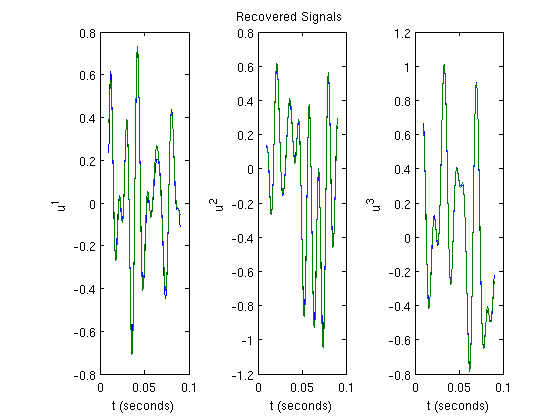
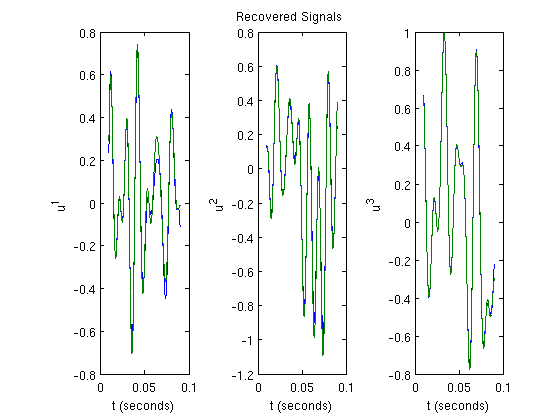
Add Eftychios' fix for the wrong signs in delayed IAF examples.

diff --git a/teddemos/html/iaf_spline_mimo_demo.html b/teddemos/html/iaf_spline_mimo_demo.html
@@ -6,7 +6,7 @@
    <!--
 This HTML was auto-generated from MATLAB code.
 To make changes, update the MATLAB code and republish this document.
-      --><title>Time Encoding and Decoding of Multiple Signals with Multiple Integrate-and-Fire Neurons Using Spline Interpolation</title><meta name="generator" content="MATLAB 7.11"><link rel="schema.DC" href="http://purl.org/dc/elements/1.1/"><meta name="DC.date" content="2011-02-03"><meta name="DC.source" content="iaf_spline_mimo_demo.m"><style type="text/css">
+      --><title>Time Encoding and Decoding of Multiple Signals with Multiple Integrate-and-Fire Neurons Using Spline Interpolation</title><meta name="generator" content="MATLAB 7.11"><link rel="schema.DC" href="http://purl.org/dc/elements/1.1/"><meta name="DC.date" content="2011-04-12"><meta name="DC.source" content="iaf_spline_mimo_demo.m"><style type="text/css">
 
 body {
   background-color: white;
@@ -95,7 +95,7 @@ C = 0.01*ones(1,N)/2;            <span class="comment">% capacitances</span>
 
 <span class="keyword">for</span> j=1:N
     <span class="keyword">for</span> i=1:M
-        v(j,:) = v(j,:)+scale(j,i)*u(i,tr_vc+round(delay(j,i)/dt));
+        v(j,:) = v(j,:)+scale(j,i)*u(i,tr_vc-round(delay(j,i)/dt));
     <span class="keyword">end</span>
 <span class="keyword">end</span>
 </pre><p>Encode the signals:</p><pre class="codeinput"><span class="keyword">for</span> j=1:N
@@ -118,9 +118,9 @@ snr
 </pre><pre class="codeoutput">
 snr =
 
-   21.2519   26.0216   31.3615
+   17.9749   21.9524   32.6320
 
-</pre><p><i>Author: Eftychios A. Pnevmatikakis</i></p><p><i>Copyright 2009-2010 Eftychios A. Pnevmatikakis</i></p><p class="footer"><br>
+</pre><p><i>Author: Eftychios A. Pnevmatikakis</i></p><p><i>Copyright 2009-2011 Eftychios A. Pnevmatikakis</i></p><p class="footer"><br>
       Published with MATLAB&reg; 7.11<br></p></div><!--
 ##### SOURCE BEGIN #####
 %% Time Encoding and Decoding of Multiple Signals with Multiple Integrate-and-Fire Neurons Using Spline Interpolation
@@ -187,7 +187,7 @@ v = zeros(N,length(tr_vc));
 
 for j=1:N
     for i=1:M
-        v(j,:) = v(j,:)+scale(j,i)*u(i,tr_vc+round(delay(j,i)/dt));
+        v(j,:) = v(j,:)+scale(j,i)*u(i,tr_vc-round(delay(j,i)/dt));
     end
 end    
 
@@ -223,7 +223,7 @@ snr
 %%
 % _Author: Eftychios A. Pnevmatikakis_
 %%
-% _Copyright 2009-2010 Eftychios A. Pnevmatikakis_
+% _Copyright 2009-2011 Eftychios A. Pnevmatikakis_
 
 ##### SOURCE END #####
 --></body></html>

diff --git a/ted/consistent_decoding_IF_MIMO.m b/ted/consistent_decoding_IF_MIMO.m
@@ -33,11 +33,11 @@ r = zeros(ln2(end),M);
 
 for inp = 1:M
     %G = G + G_pop_IF_scale(TK+repmat(delay(:,inp)',max(LN),1),ln,scale(:,inp),N);
-    G = G + G_pop_IF(TK+repmat(delay(:,inp)',max(LN),1),ln,scale(:,inp));
+    G = G + G_pop_IF(TK-repmat(delay(:,inp)',max(LN),1),ln,scale(:,inp));
     %p(:,inp) = p_IF_scale(TK+repmat(delay(:,inp)',max(LN),1),ln,scale(:,inp),N);
-    p(:,inp) = p_IF(TK+repmat(delay(:,inp)',max(LN),1),Inf,ln,scale(:,inp))'; 
+    p(:,inp) = p_IF(TK-repmat(delay(:,inp)',max(LN),1),Inf,ln,scale(:,inp))'; 
     %r(:,inp) = r_IF_scale(TK+repmat(delay(:,inp)',max(LN),1),ln,scale(:,inp),N);
-    r(:,inp) = r_IF(TK+repmat(delay(:,inp)',max(LN),1),Inf,ln,scale(:,inp))';
+    r(:,inp) = r_IF(TK-repmat(delay(:,inp)',max(LN),1),Inf,ln,scale(:,inp))';
 end
 
 V = [G p r; p' zeros(M,2*M); r' zeros(M,2*M)];
@@ -53,7 +53,7 @@ u_rec = repmat(d0,1,length(t)) + d1*t;
 for j = 1:N
     for spk = 1:ln(j)
         for inp = 1:M
-            u_rec(inp,:) = u_rec(inp,:) + scale(j,inp)*c(ln2(j)+spk)*psi(TK(spk,j)+delay(j,inp),TK(spk+1,j)+delay(j,inp),t);
+            u_rec(inp,:) = u_rec(inp,:) + scale(j,inp)*c(ln2(j)+spk)*psi(TK(spk,j)-delay(j,inp),TK(spk+1,j)-delay(j,inp),t);
         end
     end
 end

diff --git a/teddemos/iaf_spline_mimo_demo.m b/teddemos/iaf_spline_mimo_demo.m
@@ -62,7 +62,7 @@ v = zeros(N,length(tr_vc));
 
 for j=1:N
     for i=1:M
-        v(j,:) = v(j,:)+scale(j,i)*u(i,tr_vc+round(delay(j,i)/dt));
+        v(j,:) = v(j,:)+scale(j,i)*u(i,tr_vc-round(delay(j,i)/dt));
     end
 end    
 
@@ -98,4 +98,4 @@ snr
 %%
 % _Author: Eftychios A. Pnevmatikakis_
 %%
-% _Copyright 2009-2010 Eftychios A. Pnevmatikakis_
+% _Copyright 2009-2011 Eftychios A. Pnevmatikakis_
